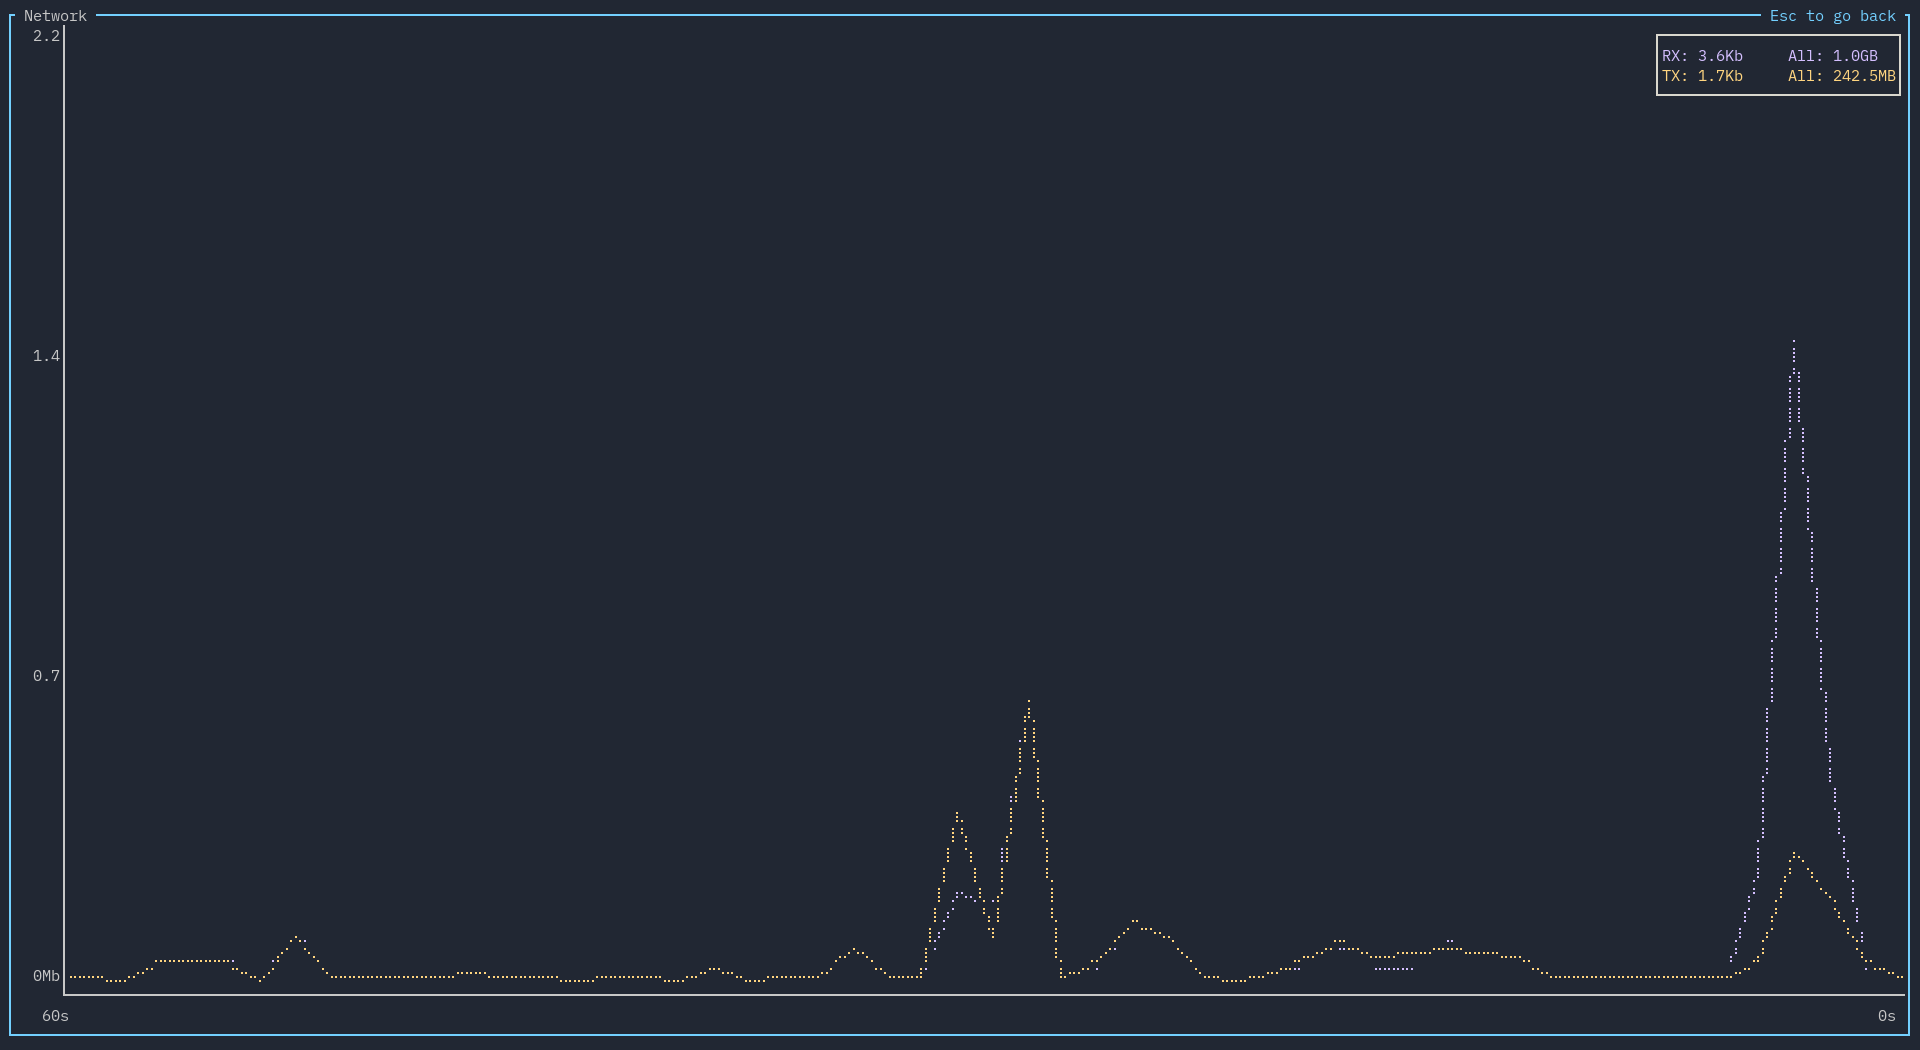
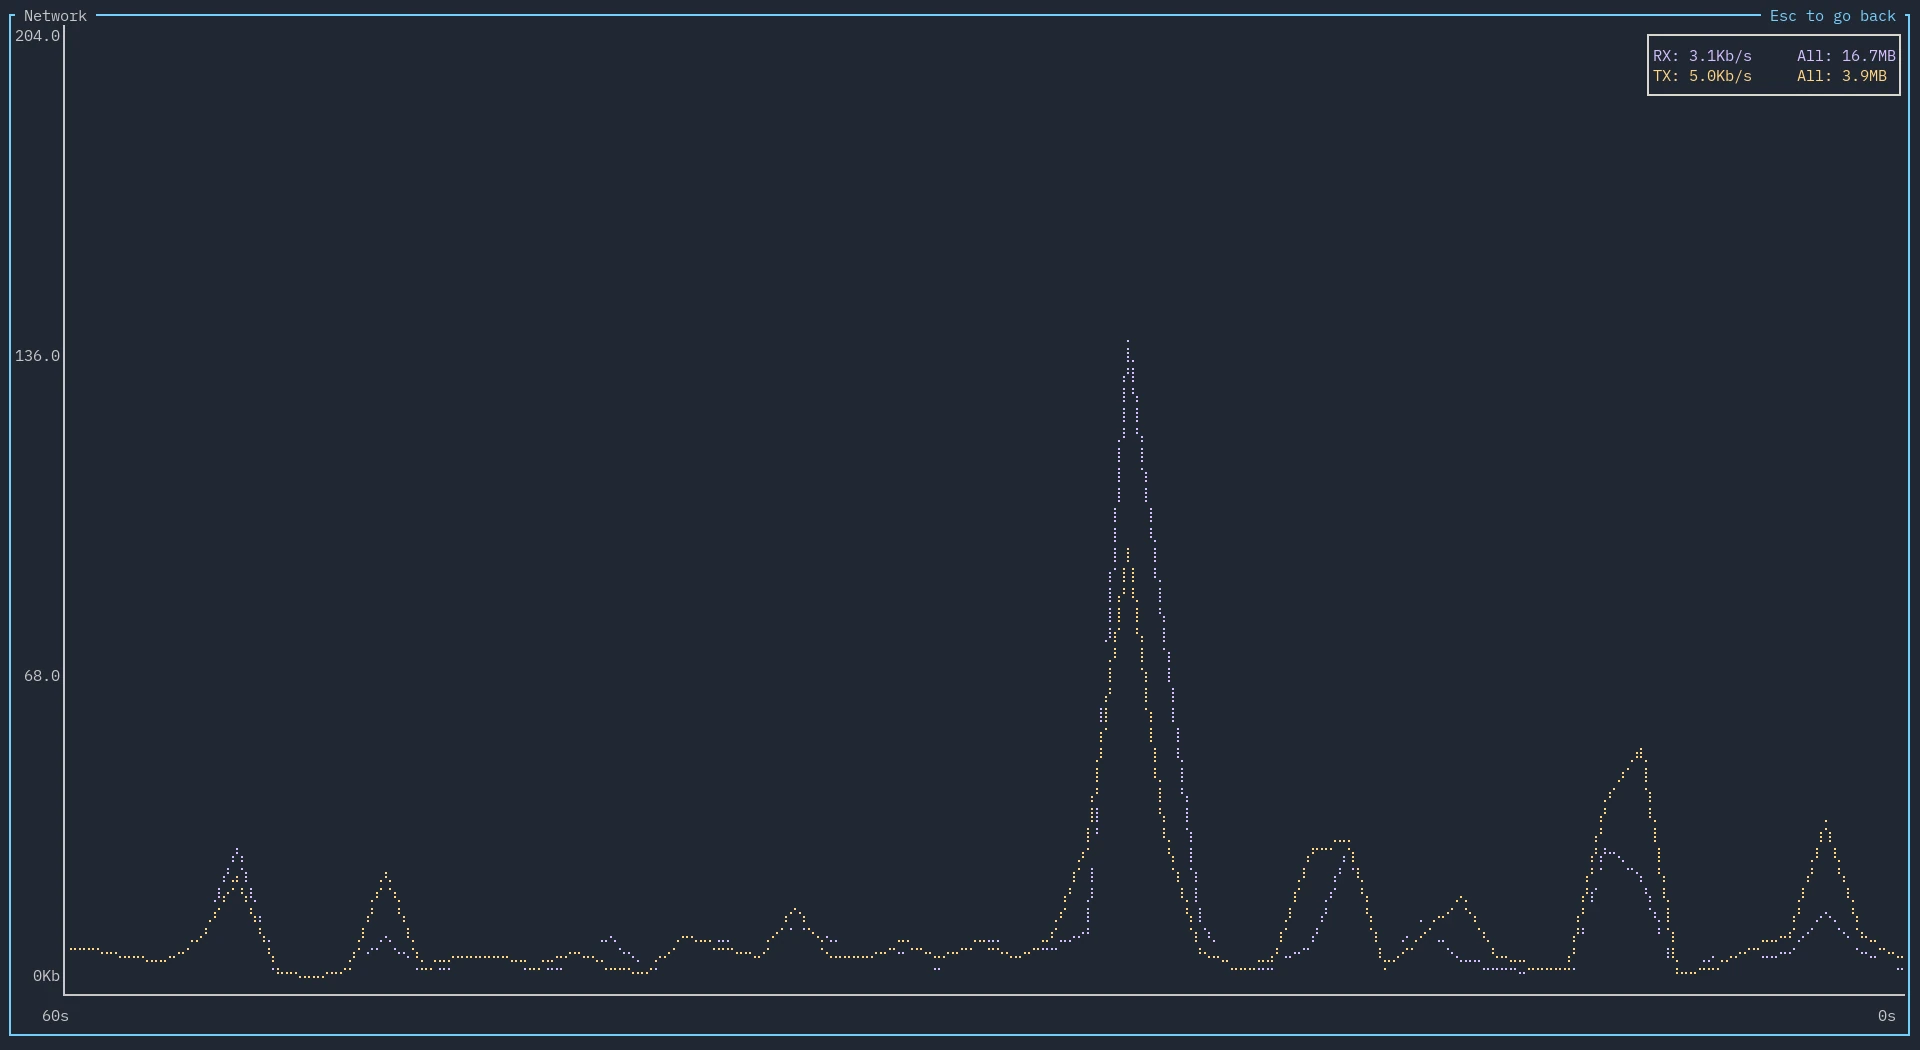
change: add '/s' to network usage legend (#557)
Adds "/s" to the the network usage graph legend.

diff --git a/src/data_conversion.rs b/src/data_conversion.rs
@@ -435,8 +435,8 @@ pub fn convert_network_data_points(
     );
 
     let unit = match network_unit_type {
-        DataUnit::Byte => "B",
-        DataUnit::Bit => "b",
+        DataUnit::Byte => "B/s",
+        DataUnit::Bit => "b/s",
     };
 
     let (rx_data, tx_data, total_rx_data, total_tx_data) = match network_unit_type {
@@ -501,7 +501,7 @@ pub fn convert_network_data_points(
         }
     } else {
         let rx_display = format!(
-            "RX: {:<8}  All: {}",
+            "RX: {:<10}  All: {}",
             if network_use_binary_prefix {
                 format!("{:.1}{:3}", rx_converted_result.0, rx_converted_result.1)
             } else {
@@ -520,7 +520,7 @@ pub fn convert_network_data_points(
             }
         );
         let tx_display = format!(
-            "TX: {:<8}  All: {}",
+            "TX: {:<10}  All: {}",
             if network_use_binary_prefix {
                 format!("{:.1}{:3}", tx_converted_result.0, tx_converted_result.1)
             } else {

diff --git a/CHANGELOG.md b/CHANGELOG.md
@@ -7,6 +7,10 @@ and this project adheres to [Semantic Versioning](https://semver.org/spec/v2.0.0
 
 ## [0.6.4]/[0.7.0] - Unreleased
 
+## Changes
+
+- [#557](https://github.com/ClementTsang/bottom/pull/557): Add '/s' to network usage legend.
+
 ## Internal Changes
 
 - [#551](https://github.com/ClementTsang/bottom/pull/551): Disable AUR package generation in release pipeline since it's now in community.
